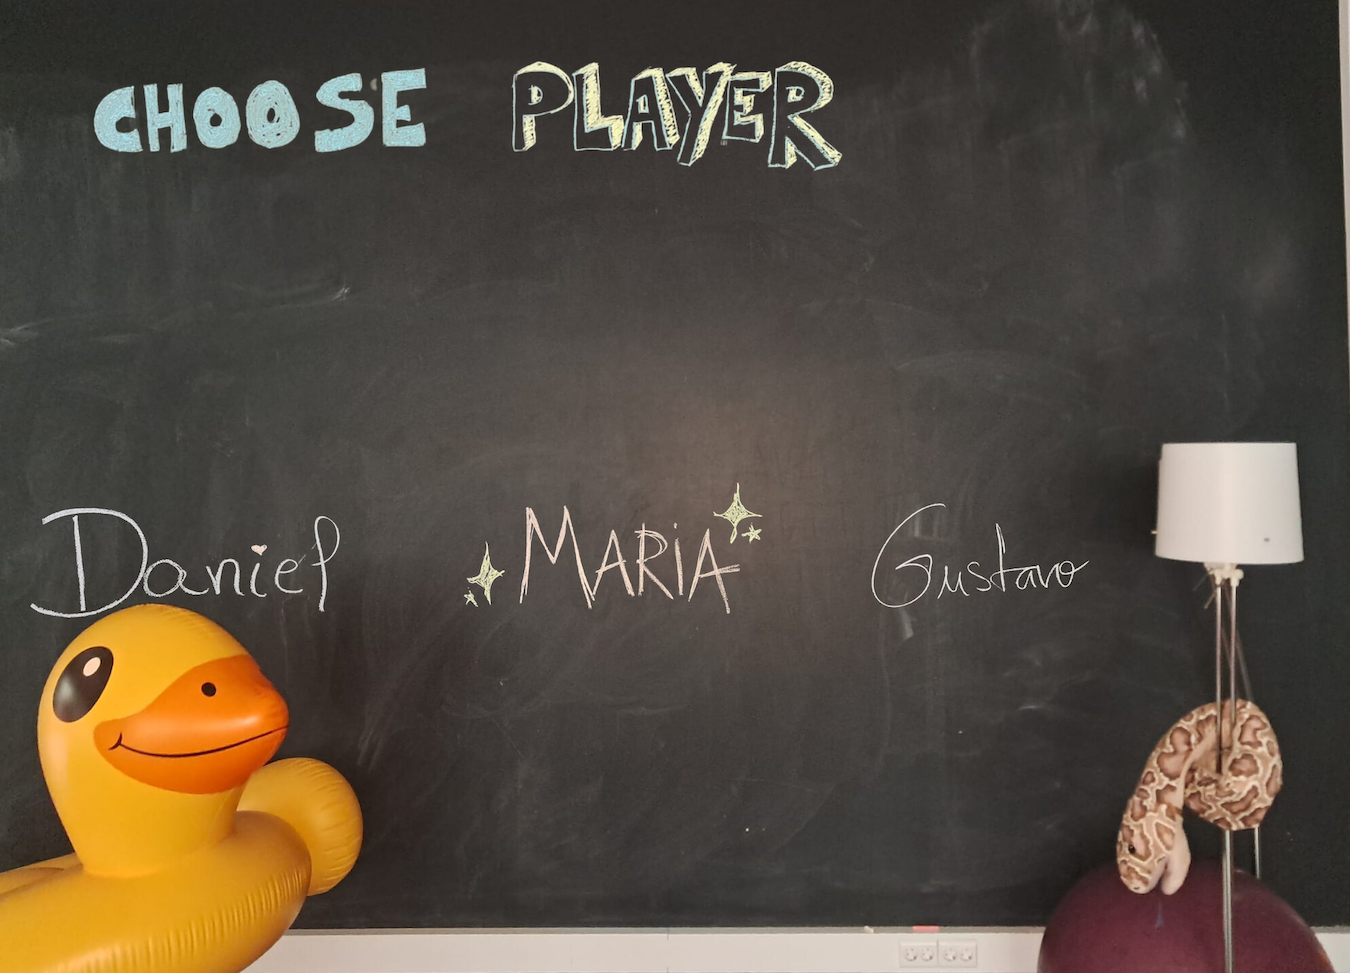
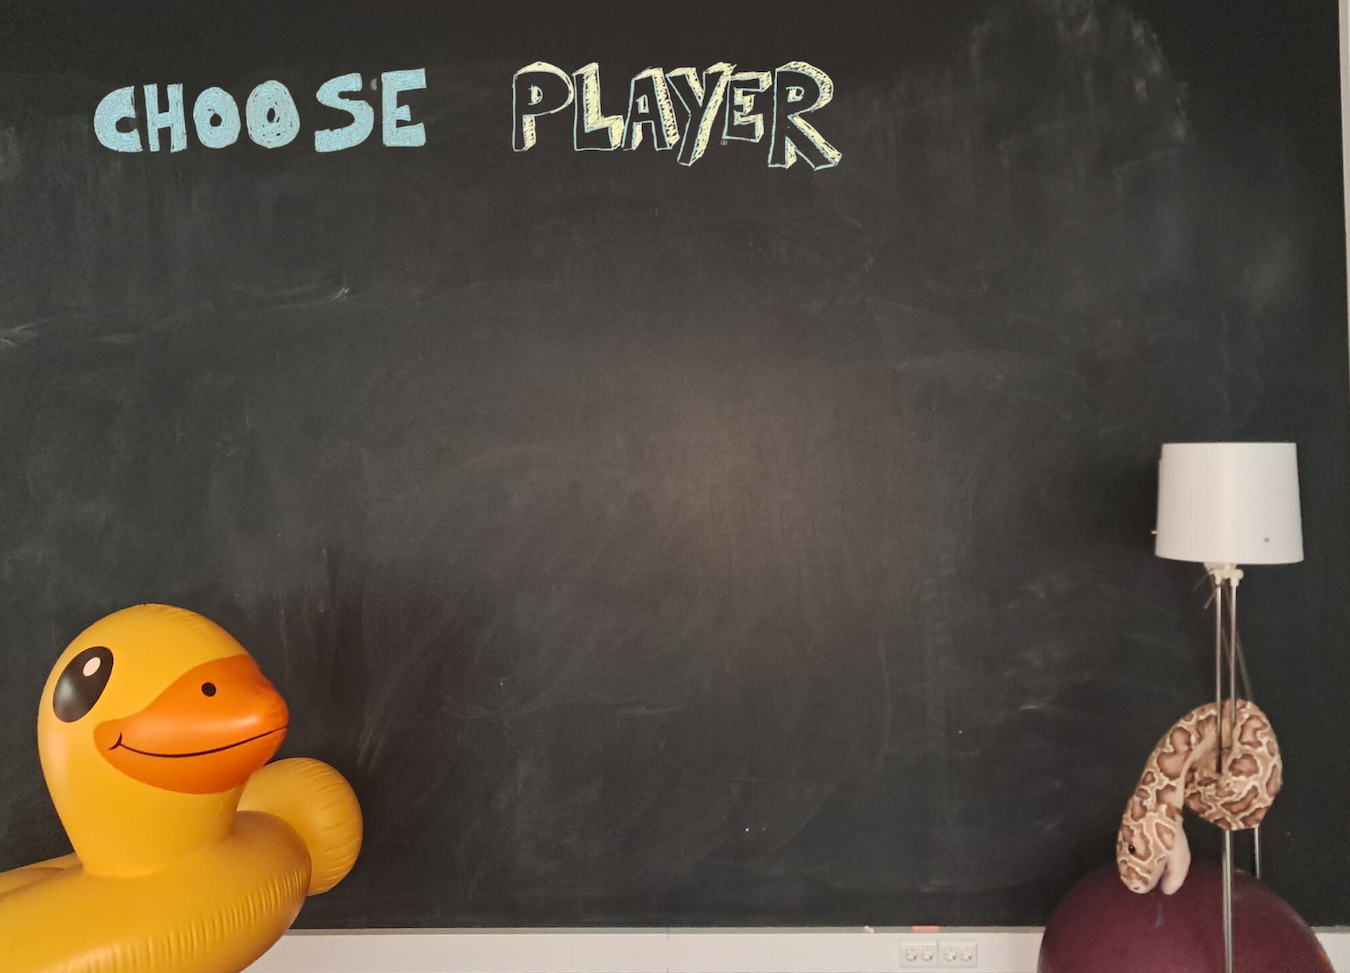
classes novas e mais resources

diff --git a/Game Jam/src/io/codeforall/bootcamp/screens/ChoosePlayer.java b/Game Jam/src/io/codeforall/bootcamp/screens/ChoosePlayer.java
@@ -5,6 +5,11 @@ import org.academiadecodigo.simplegraphics.pictures.Picture;
 public class ChoosePlayer {
 
     private Picture cp;
+
+    private Picture danielTitle;
+    private Picture mariaTitle;
+    private Picture gustavoTitle;
+
     private Picture daniel;
     private Picture maria;
     private Picture gustavo;
@@ -13,41 +18,53 @@ public class ChoosePlayer {
     private Picture press2;
     private Picture press3;
 
+
     public ChoosePlayer() {
         cp = new Picture(10, 10, "resources/Background/choose-player-screen.png");
 
-        press1 = new Picture(120, 200, "resources/Buttons/press-1.png");
-        press2 = new Picture(530, 200, "resources/Buttons/press-2.png");
-        press3 = new Picture(900, 200, "resources/Buttons/press-3.png");
+        danielTitle = new Picture(65, 100, "resources/Buttons/daniel-title.png");
+        mariaTitle = new Picture(490, 100, "resources/Buttons/maria-title.png");
+        gustavoTitle = new Picture(890, 100, "resources/Buttons/gustavo-title.png");
 
-        daniel = new Picture(100, 280, "resources/Player/Daniel/daniel-still-choose.png");
-        maria = new Picture(560, 280, "resources/Player/Daniel/daniel-still-choose.png");
-        gustavo = new Picture(890, 280, "resources/Player/Daniel/daniel-still-choose.png");
+        daniel = new Picture(110, 280, "resources/Player/Daniel/daniel-still-choose.png");
+        maria = new Picture(530, 290, "resources/Player/Maria/maria-still-choose.png");
+        gustavo = new Picture(930, 290, "resources/Player/Gustavo/gustavo-still-choose.png");
+
+        press1 = new Picture(120, 500, "resources/Buttons/press-1.png");
+        press2 = new Picture(530, 500, "resources/Buttons/press-2.png");
+        press3 = new Picture(930, 500, "resources/Buttons/press-3.png");
     }
 
     public void load() {
         cp.draw();
 
-        press1.draw();
-        press2.draw();
-        press3.draw();
-
+        danielTitle.draw();
+        mariaTitle.draw();
+        gustavoTitle.draw();
 
         daniel.draw();
         maria.draw();
         gustavo.draw();
+
+        press1.draw();
+        press2.draw();
+        press3.draw();
     }
 
     public void delete() {
         cp.delete();
 
-        press1.delete();
-        press2.delete();
-        press3.delete();
+        danielTitle.delete();
+        mariaTitle.delete();
+        gustavoTitle.delete();
 
         daniel.delete();
         maria.delete();
         gustavo.delete();
+
+        press1.delete();
+        press2.delete();
+        press3.delete();
     }
 
     public void flashingHeads(int ms) {
@@ -61,15 +78,22 @@ public class ChoosePlayer {
             daniel.delete();
             maria.delete();
             gustavo.delete();
+
         }
+
+        daniel.draw();
+        maria.draw();
+        gustavo.draw();
     }
 
     private void delayImage(int ms) {
-
-        try {
-            Thread.sleep(ms);
-        } catch (InterruptedException e) {
-            e.printStackTrace();
+        while (!Thread.currentThread().isInterrupted()) {
+            try {
+                Thread.sleep(ms);
+            } catch (InterruptedException e) {
+                Thread.currentThread().interrupt();
+                break;
+            }
         }
     }
 }

diff --git a/Game Jam/src/io/codeforall/bootcamp/MyKeyboardHandler.java b/Game Jam/src/io/codeforall/bootcamp/MyKeyboardHandler.java
@@ -23,6 +23,7 @@ public class MyKeyboardHandler implements KeyboardHandler {
     private PlayArea myPlayArea;
 
     private boolean pressedSpace = false;
+    private Thread flashingThread = null;
 
     public void init() {
 
@@ -76,19 +77,27 @@ public class MyKeyboardHandler implements KeyboardHandler {
                     mySC.delete();
                     myCP.load();
 
-                    new Thread(() -> {
+                    // Start the flashing thread if it's not already running
+                    flashingThread = new Thread(() -> {
                         myCP.flashingHeads(300);
-                    }).start();
-                    
+                    });
+                    flashingThread.start();
+
                     pressedSpace = true;
                 }
                 break;
 
             case KeyboardEvent.KEY_1:
                 //falta por cara correspondente e dar delete
-                myCP.delete();
-                myPlayArea.load();
-                myPlayer.init();
+
+                // Stops the flashingThread if another key is pressed
+                if(flashingThread != null && flashingThread.isAlive()) {
+                    flashingThread.interrupt();
+
+                    myCP.delete();
+                    myPlayArea.load();
+                    myPlayer.init();
+                }
                 break;
 
             case KeyboardEvent.KEY_2:

diff --git a/Game Jam/src/io/codeforall/bootcamp/players/Daniel.java b/Game Jam/src/io/codeforall/bootcamp/players/Daniel.java
@@ -1,4 +1,27 @@
 package io.codeforall.bootcamp.players;
 
+import io.codeforall.bootcamp.bullets.Bullet;
+import org.academiadecodigo.simplegraphics.pictures.Picture;
+
 public class Daniel extends Player {
+
+    private Picture daniel;
+    private Bullet bullet;
+    private boolean canMoveUp = true;
+    private boolean canMoveDown = false;
+
+    public Daniel(){
+        daniel = new Picture(20, 650, "resources/Player/Daniel/daniel-still.png");
+        this.bullet = new Bullet(getX(), getY(), "resources/Bullets/daniel-bullet.png");
+    }
+
+    @Override
+    public void standardFace() {
+        daniel.load("resources/Player/Daniel/daniel-still.png");
+    }
+
+    @Override
+    public void shootingFace(){
+        daniel.load("resources/Player/Daniel/daniel-shooting.png");
+    }
 }

diff --git a/Game Jam/src/io/codeforall/bootcamp/screens/StartingScreen.java b/Game Jam/src/io/codeforall/bootcamp/screens/StartingScreen.java
@@ -2,6 +2,9 @@ package io.codeforall.bootcamp.screens;
 
 import org.academiadecodigo.simplegraphics.pictures.Picture;
 
+import javax.swing.*;
+import java.awt.*;
+
 public class StartingScreen {
 
 	private Picture startingScreen;
@@ -10,6 +13,7 @@ public class StartingScreen {
 	public StartingScreen(){
 		startingScreen = new Picture(10,10, "resources/Background/starting-screen.png");
 		pressStart = new Picture(430, 550, "resources/Buttons/press-start.png");
+
 	}
 
 	public void load(){

diff --git a/Game Jam/src/io/codeforall/bootcamp/players/Player.java b/Game Jam/src/io/codeforall/bootcamp/players/Player.java
@@ -11,7 +11,7 @@ public class Player {
 
     public Player() {
         player = new Picture(20, 650, "resources/Player/Daniel/daniel-still.png");
-        //this.bullet =  new Bullet(getX(), getY(), "resources/Bullets/daniel-bullet.png");
+        this.bullet =  new Bullet(getX(), getY(), "resources/Bullets/daniel-bullet.png");
     }
 
     public void standardFace() {

diff --git a/Game Jam/src/io/codeforall/bootcamp/bullets/DanielBullet.java b/Game Jam/src/io/codeforall/bootcamp/bullets/DanielBullet.java
@@ -1,0 +1,15 @@
+package io.codeforall.bootcamp.bullets;
+
+import org.academiadecodigo.simplegraphics.pictures.Picture;
+
+public class DanielBullet extends Bullet {
+
+    private Picture bullet;
+
+    public DanielBullet(int startX, int startY){
+
+        super(startX, startY, "resources/Bullets/daniel-bullet.png");
+    }
+
+
+}

diff --git a/Game Jam/src/io/codeforall/bootcamp/bullets/GustavoBullet.java b/Game Jam/src/io/codeforall/bootcamp/bullets/GustavoBullet.java
@@ -1,0 +1,4 @@
+package io.codeforall.bootcamp.bullets;
+
+public class GustavoBullet {
+}

diff --git a/Game Jam/src/io/codeforall/bootcamp/bullets/MariaBullet.java b/Game Jam/src/io/codeforall/bootcamp/bullets/MariaBullet.java
@@ -1,0 +1,4 @@
+package io.codeforall.bootcamp.bullets;
+
+public class MariaBullet {
+}
